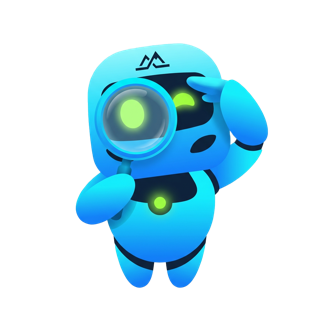
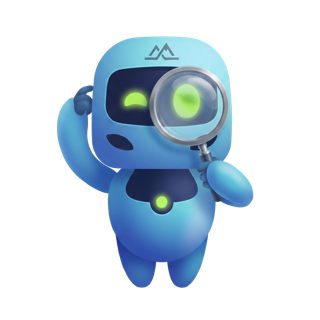
Обновлены некоторые элементы дизайна

diff --git a/index.html b/index.html
@@ -253,6 +253,21 @@
      станций — обычные строки поверх неё). 2026-09-04. */
   .station-modal-card{ max-width:340px; padding:20px 18px; }
   .station-modal-card h2{ padding-left:4px; }
+  /* Маскот с подзорной трубой (far.png, тот же файл, что в строке
+     геолокации) — "высматривает" станцию в списке. Крупный, в свободном
+     углу карточки (справа снизу от коротких названий станций).
+     z-index:0 — НАМЕРЕННО ниже .station-modal-row (z-index:1): на
+     казахском/английском самые длинные названия ("М. Әуезов атындағы
+     театр", 24 симв.) доходят почти до края карточки, так что маскот
+     местами окажется позади текста — это ожидаемо и безопасно, текст
+     всегда читается поверх картинки, а не наоборот. pointer-events:none,
+     чтобы декоративный элемент не перехватывал клики по строкам.
+     2026-09-07 (переехал сюда из шапки — было два маскота на одном
+     экране, оставили один, но крупнее). */
+  .station-modal-mascot{
+    position:absolute; right:10px; bottom:10px; width:104px; height:104px;
+    object-fit:contain; z-index:0; pointer-events:none;
+  }
   .station-modal-line{ position:relative; display:flex; flex-direction:column; padding:4px 0; }
   .station-modal-line::before{
     content:''; position:absolute; top:26px; bottom:26px; left:16px; width:2px;
@@ -582,10 +597,14 @@
      (см. sw.js + X-From-SW-Cache в fetchJSON ниже) — не просто "давно не
      обновлялось", а именно "прямо сейчас нет сети". */
   .offline-note{
-    display:flex; align-items:flex-start; background:var(--card); border:1px solid var(--warn);
-    border-radius:14px; padding:11px 14px; margin:0 auto 12px;
+    display:flex; align-items:center; gap:10px; background:var(--card); border:1px solid var(--warn);
+    border-radius:14px; padding:9px 14px; margin:0 auto 12px;
     max-width:608px; width:calc(100% - 32px); font-size:12.5px; color:var(--warn); line-height:1.45; font-weight:600;
   }
+  /* mascot/offline.png — новая поза (2026-09-07), файл появится позже —
+     если файла ещё нет, браузер просто не покажет пустую картинку (alt=""),
+     текст баннера при этом не ломается. */
+  .offline-note-mascot{ width:34px; height:34px; flex:none; object-fit:contain; }
 
   .about-h2{ font-size:14px; font-weight:600; margin:0 0 10px; letter-spacing:-.2px; }
   .about-text{ font-size:13.5px; color:var(--muted); line-height:1.6; margin:0; }
@@ -978,6 +997,7 @@
 </main>
 
 <div class="offline-note" id="offlineNote" style="display:none">
+  <img class="offline-note-mascot" src="mascot/offline.png" alt="" onerror="this.style.display='none'" />
   <span id="offlineNoteText">Нет соединения — показаны сохранённые данные</span>
 </div>
 
@@ -1043,6 +1063,7 @@
     <button class="feedback-close" id="stationModalClose" aria-label="Закрыть">×</button>
     <h2 id="stationModalTitle">Выбор станции</h2>
     <div class="station-modal-line" id="stationModalLine"><!-- заполняется JS --></div>
+    <img class="station-modal-mascot" src="mascot/far.png" alt="" />
   </div>
 </div>
 

diff --git a/CLAUDE.md b/CLAUDE.md
@@ -472,6 +472,35 @@ white background"), а вырезание делать отдельным шаг
 обводка). Сам референс-лист не хранится в репозитории, это рабочий
 материал для генерации, не финальный ассет.
 
+**Пересборка трёх старых поз под новый стиль (2026-09-07):** `logo.png`,
+`searching.png` и `sleeping.png` были сгенерены ещё до референс-листа —
+у них (в отличие от более поздних `far.png`/`peek.png`/`waving.png`)
+осталась жёсткая чёрная обводка между конечностями и плоские глаза без
+свечения. Пользователь перегенерировал все три по референс-листу и
+попросил заодно позу `sleeping` сделать **лежачей** ("как ребёнок", была
+сидячей, свернувшись). Файлы пришли с суффиксом `1` в имени
+(`logo1.png` и т.д.) и уже с прозрачным фоном (проверено поканально —
+`getbbox()`/гистограмма альфа-канала, а не на глаз: альфа=0 по углам,
+чистое бимодальное распределение без "серого" ореола недорезанного
+фона) — вырезать самому не понадобилось. Уменьшил (`sips -Z`) до тех же
+размеров, что были у старых файлов (128/320/400px — та же логика, что и
+для `offline.png` выше), переименовал без `1`, что автоматически
+перезаписало старые версии; старые остались в git-истории
+(`681f36b`), если понадобится откатить.
+
+Лежачая поза `sleeping.png` теперь **шире, чем выше** (соотношение
+~1.3:1 против прежнего портретного ~0.7:1) — квадратный canvas (400×400)
+это не ломает, `object-fit:contain` во всех трёх местах использования
+(`.closed-banner img` 72px, `.wtg-taxi-mascot` 64px) просто чуть
+уменьшает картинку внутри квадрата, не обрезая её. Проверено на всех
+трёх местах: шапка (28px, `logo.png`), баннер геолокации при отказе
+(`searching.png`, реальный `kind:'err'`, не подделка), баннер "метро
+закрыто" (72px, через временный `setInterval`-хук, т.к. обычный
+`style.display` тут же затирается тиком приложения) и мелкая версия в
+"Когда выезжать" (64px, через временный тестовый элемент). Везде
+силуэт/текст "Zzz" читаются, никаких следов старой чёрной обводки.
+Debug-элементы убраны после проверки.
+
 ### Заглушка Telegram вне настоящего Telegram-клиента
 `telegram-web-app.js`, загруженный не внутри Telegram (обычный браузер,
 тестирование), не выкидывает ошибку — а подставляет молчаливую заглушку:
@@ -2251,6 +2280,69 @@ Google) — я не смог найти точный список приложе
 `selectStation()` (проверил на "Б. Момышулы" — карточка маршрута
 обновилась корректно). Debug-хук `__debugDocked` использован повторно
 для той же проверки и снова убран.
+
+## Маскот — ещё два места (2026-09-07)
+
+После всех обновлений за 2026-09-06 (шаринг, iOS-баннер, время в пути,
+платформы) обсудили с пользователем, куда ещё можно посадить маскота —
+он уже был в шапке/геолокации/"метро закрыто"/заглушке-переезде/
+подглядывании перед отправлением (см. раздел "Маскот" выше). Добавили
+два новых места:
+
+1. **Модалка выбора станции** (`#stationModal`) — раньше пустая шапка
+   над списком станций, только `<h2>`. Сначала добавили маленький
+   `mascot/far.png` (та же картинка, что в строке геолокации при "далеко
+   от Алматы") рядом с заголовком — поза с подзорной трубой подошла по
+   смыслу для "высматривания" станции. Пользователь предложил вариант
+   получше: перенести маскота крупнее в свободный угол карточки (справа
+   снизу от списка, там пустует место при коротких названиях станций) —
+   один заметный акцент вместо мелкой иконки у заголовка. Финальная
+   реализация:
+   ```css
+   .station-modal-mascot{
+     position:absolute; right:10px; bottom:10px; width:104px; height:104px;
+     object-fit:contain; z-index:0; pointer-events:none;
+   }
+   ```
+   **Важный нюанс:** пустота справа — НЕ гарантирована во всех языках.
+   Самое длинное название станции — 22 символа на русском ("Театр имени
+   М. Ауэзова"), но 24 на казахском ("М. Әуезов атындағы театр") — на
+   казахском/английском текст нижних строк может доходить почти до края
+   карточки и залезать в зону маскота. Решение — `z-index:0` у маскота
+   при `z-index:1` у `.station-modal-row` (уже было в CSS): где текст
+   строки и картинка пересекаются, строка всегда СВЕРХУ и полностью
+   читается, картинка в этих местах просто частично прячется позади —
+   не наоборот. Плюс `pointer-events:none`, чтобы декоративная картинка
+   физически не перехватывала клики по строкам под/над собой.
+   Проверено через `document.elementFromPoint()` именно в точке
+   пересечения маскота с последней строкой списка — вернулась кнопка
+   `.station-modal-row`, а не `<img>`, т.е. клики по станциям в зоне
+   наложения работают как обычно.
+2. **Баннер "Нет соединения"** (`#offlineNote`) — раньше голый текст без
+   иконки вообще; ни одна из существующих семи поз не подходила по
+   смыслу ("растерянный"/"нет сигнала" — новая эмоция). Пользователь
+   генерирует новую позу через Nano Banana по прежней формуле (см.
+   промпт-заметку выше в файле: сплошной **белый** фон, не прозрачный;
+   **без чёрной обводки**; мягкое градиентное свечение в глазах) —
+   ожидаемое имя файла `mascot/offline.png`. Код уже подключён заранее,
+   ДО того как файл появился:
+   ```html
+   <img class="offline-note-mascot" src="mascot/offline.png" alt=""
+        onerror="this.style.display='none'" />
+   ```
+   `onerror` — намеренная защита: без неё браузер показал бы иконку
+   "битой картинки" на самом баннере, который уже показывается реальным
+   пользователям (это не черновик, а прод `index.html`). Пока файла нет
+   — баннер выглядит как раньше, чистый текст; как только `offline.png`
+   появится в `mascot/` — иконка подключится сама, без правок кода.
+   Проверено через `javascript_tool`: `img.complete === true`,
+   `naturalWidth === 0` → `onerror` сработал → `display:none`, баннер
+   не сломан.
+
+   Файл получен в тот же день — исходная генерация была 928×1152
+   (660 КБ), уменьшена до 241×300 (56 КБ) той же командой, что и
+   остальные (`sips -Z 300 mascot/offline.png`) — вписалась в тот же
+   порядок размеров, что у остальных шести файлов (68–190 КБ).
 
 ## Как продолжить работу
 
